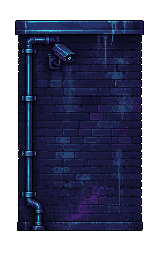
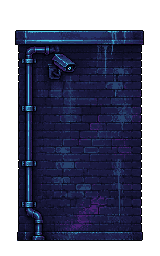
Fix wall-panel ground alignment + oversized selection boxes
- Re-pad all 21 nc_building_wall PNGs so every panel's alpha content
  bottom-aligns to the same canvas row. PixelLab drew each panel's art
  at a different vertical offset inside its 256px canvas (bottom_pad
  ranged 15-67px across the family), so bottom-anchored placement made
  neighboring wall segments look like different heights even on the
  same ground row. Pure repadding, no art redrawn, zero clipping (every
  shift only pushes content away from the already-empty edge).

- Added fractional trim box (assets/ASSET_MANIFEST.json: trim{x,y,w,h},
  0..1 relative to each PNG own pixel size) for the 21 wall panels
  plus the 5 prop_ncp_* props (fuse box, neon sign, security camera,
  streetlight, vending machine) - the other decoration family with
  heavy transparent padding (15-63%).

- editor/state.js: assetVisualBox() resolves a decoration tight box
  from its trim fraction, scaled to its placed w/h.
- editor/selection.js: boundingRect('decoration', ...) now returns the
  trimmed box instead of the full padded canvas - this is what both
  objectAt()/hitRect() (click target) and the move handle read, so
  clicking near a sprite actual pixels is what selects it instead of
  its oversized transparent bounding canvas.
- editor/renderer.js: decoration selection outline now routes through
  Selection.boundingRect('decoration', d) instead of drawing the raw
  d.w/d.h box directly - the yellow highlight now matches the visible
  sprite, not its padded canvas.
[…]

Changed region(s): [[0.0938, 0.0625, 0.9062, 0.9688], [0.1562, 0.5, 0.1875, 0.5312]]

diff --git a/editor/selection.js b/editor/selection.js
@@ -15,7 +15,7 @@ import { sourceBox } from '../src_scroll/source-visuals.js';
 // that's selected. Tools (select tool, delete, copy/paste) read and write it.
 // Selection is transient (not saved with level). Cleared on level load.
 
-import { state, notify, TILE_SIZE, levelRows, worldToScreen } from './state.js';
+import { state, notify, TILE_SIZE, levelRows, worldToScreen, assetVisualBox } from './state.js';
 
 // Move-handle visual geometry (screen-space, constant across zoom).
 export const MOVE_HANDLE_RADIUS = 6;   // dot radius in screen px (visual)
@@ -212,7 +212,17 @@ const MIN_CLICK_TARGET = 28;
 // Returns tight VISUAL bounds. Do not use for click hit-testing.
 export function boundingRect(kind, ref) {
   if (!ref) return null;
-  if (kind === 'decoration') return { x: ref.x, y: ref.y, w: ref.w, h: ref.h };
+  // Decorations: many of these PNGs carry large transparent padding inside
+  // their canvas (PixelLab draws art at inconsistent margins) â€” using the
+  // full ref.w/ref.h here made the yellow selection box, and the click
+  // target under objectAt(), balloon way past the visible sprite. Shrink to
+  // the asset's precomputed trim box (see assetVisualBox in state.js) when
+  // one exists; untrimmed assets (art already fills the canvas) fall back
+  // to the full footprint unchanged.
+  if (kind === 'decoration') {
+    const box = assetVisualBox(ref.src, ref.w, ref.h);
+    return { x: ref.x + box.x, y: ref.y + box.y, w: box.w, h: box.h };
+  }
   if (kind === 'gate')       return { x: ref.x, y: ref.y, w: ref.w, h: ref.h };
   // Source: the runtime HITBOX is 28×28 at x,y, but the generator SPRITE is 64×64
   // drawn at (x-18, y-34) — see renderer.js::_drawSources. The box wraps what you

diff --git a/editor/state.js b/editor/state.js
@@ -456,8 +456,26 @@ function _normalizeManifestEntry(a) {
     height:      a.frame_height || a.height || 32,
     tags:        a.tags || [],
     isAnimation: isAnimation,
+    // Fractional (0..1) alpha-content box relative to the source PNG's own
+    // pixel dimensions â€” see assetVisualBox() below. Absent on assets whose
+    // art already fills its canvas edge-to-edge (no trim needed).
+    trim:        a.trim || null,
     raw:         a,
   };
+}
+
+// Resolve a decoration's TIGHT visual box in world units, from its manifest
+// trim fraction. Falls back to the full placed w/h when the asset has no
+// trim (already tight) or isn't found (unknown src â€” never shrink to zero).
+// `src` is the decoration's stored asset path; w/h are its PLACED dims
+// (what decoDimensions resolved at placement time, i.e. ref.w/ref.h).
+export function assetVisualBox(src, w, h) {
+  const item = state.manifest && Array.isArray(state.manifest.items)
+    ? state.manifest.items.find(it => it.path === src)
+    : null;
+  const t = item && item.trim;
+  if (!t) return { x: 0, y: 0, w, h };
+  return { x: t.x * w, y: t.y * h, w: t.w * w, h: t.h * h };
 }
 
 export async function loadLevel(url) {

diff --git a/editor/renderer.js b/editor/renderer.js
@@ -262,8 +262,11 @@ export function render(ctx, canvas) {
       ctx.setLineDash([]);
     };
 
-    // Decorations
-    for (const d of state.selection.decorations) drawOutline({ x: d.x, y: d.y, w: d.w, h: d.h });
+    // Decorations â€” route through Selection.boundingRect so the outline
+    // matches the trimmed hit box exactly (see selection.js). Used to draw
+    // the raw full-canvas d.w/d.h, which is why the yellow box used to
+    // balloon way past sprites with transparent padding baked in.
+    for (const d of state.selection.decorations) drawOutline(Selection.boundingRect('decoration', d));
 
     // Gameplay markers — geometry comes from selection.js::boundingRect, which
     // is the SINGLE SOURCE OF TRUTH for what each object's box is.
